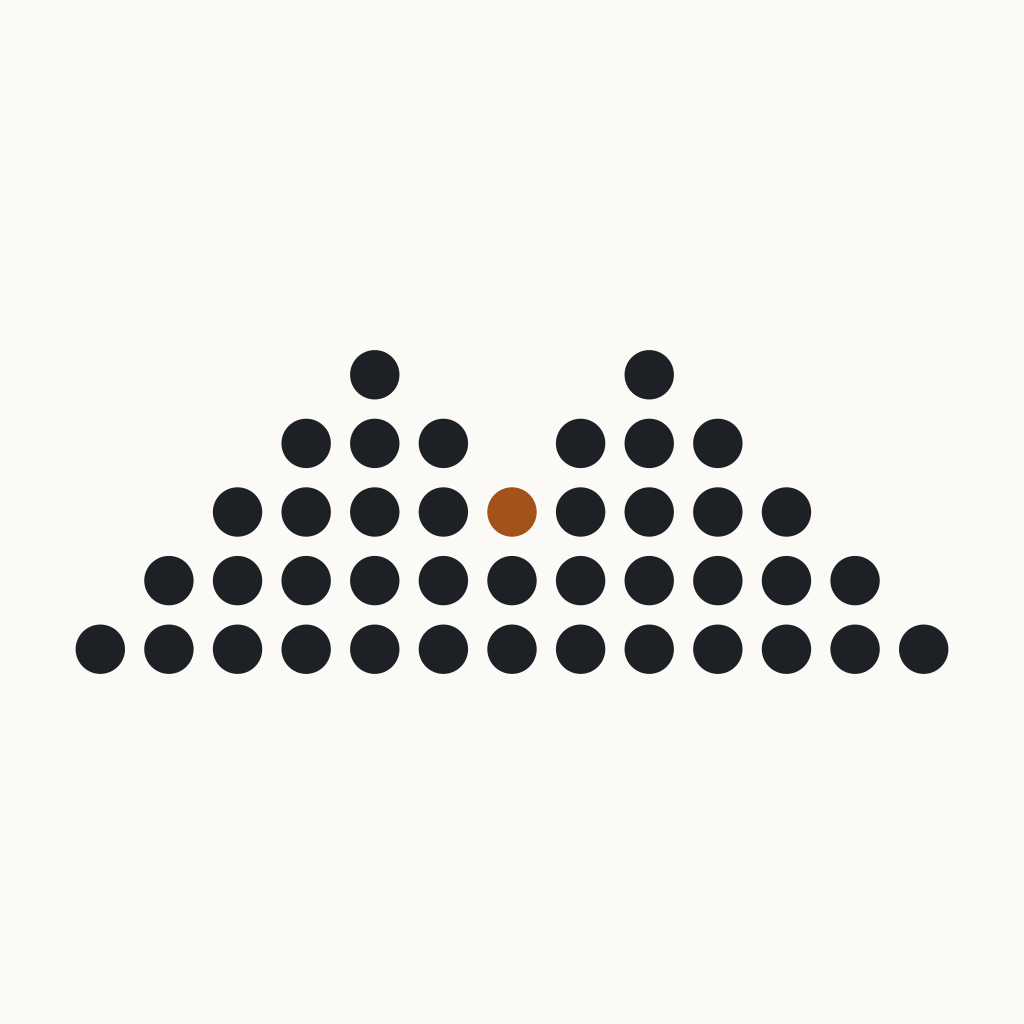
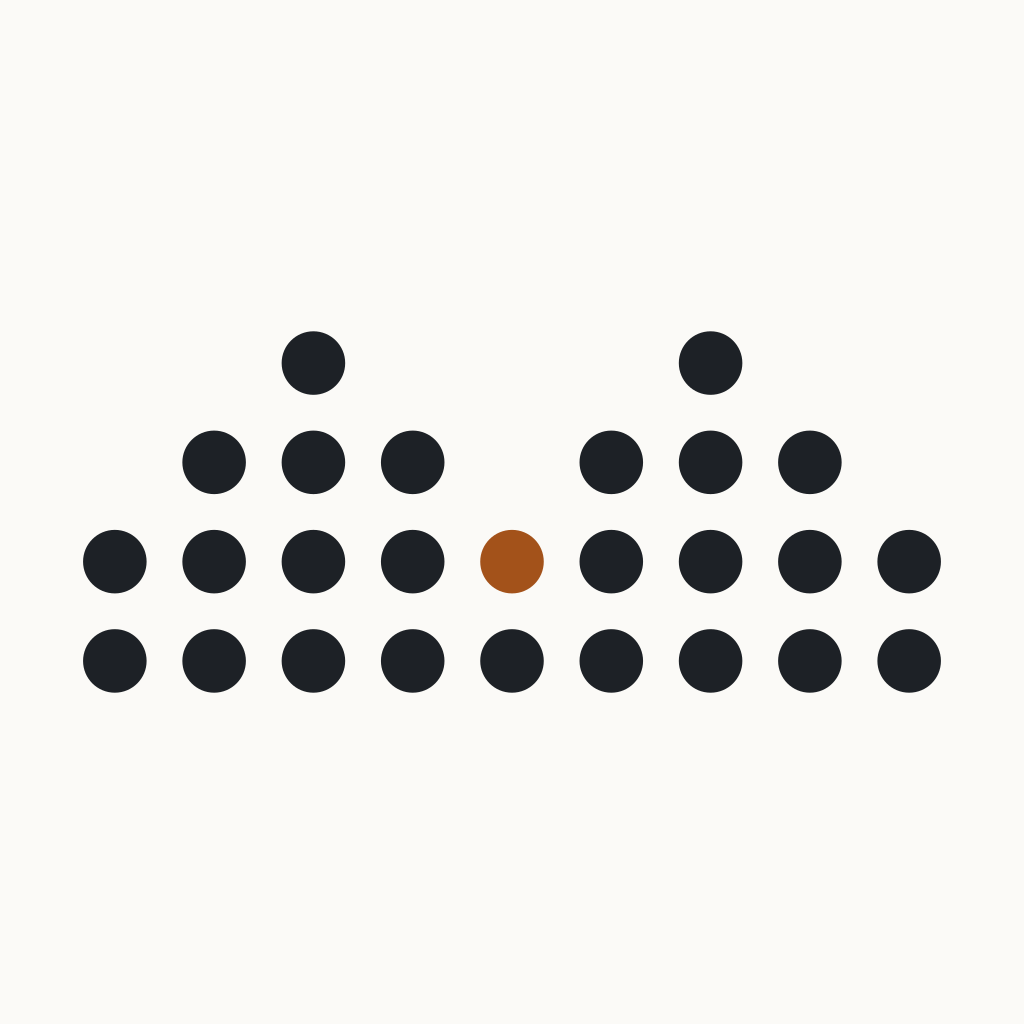
design: thicker tenferro strokes and a smaller colmat matrix for print
Same check as for tensor4all, at a left-chest size (wordmark 80 mm wide):

- tenferro strokes were 0.87 mm, enough for screen printing but not for
  embroidery (about 1.3 mm). Strokes go from 4.5 to 7 units (1.31 mm);
  favicons from 9 to 10.5.
- colmat had 41 entries with 0.63 mm gaps, under the usual 1 mm minimum,
  so entries would merge. The matrix m is now 4 by 9 with 26 entries and a
  dot ratio of 0.32: entries 1.96 mm, gaps 1.10 mm. The two peaks and the
  col stay.

The READMEs state the new sizes.

Changed region(s): [[0.0625, 0.3125, 0.9375, 0.6875]]

diff --git a/branding/tools/export_logos.py b/branding/tools/export_logos.py
@@ -164,10 +164,12 @@ def t4a_four(colors=None, cls=False):
 # A hex nut (ferro: iron, which rusts: Rust) with a tensor product as its hole.
 
 TF_NUT = "110,60 85,103.3 35,103.3 10,60 35,16.7 85,16.7"
-TF_BOX = (7.75, 14.45, 112.25, 105.55)
+TF_STROKE = 7.0       # heavy enough for embroidery at a left-chest size
+TF_STROKE_SMALL = 10.5
+TF_BOX = (10 - TF_STROKE / 2, 16.7 - TF_STROKE / 2, 110 + TF_STROKE / 2, 103.3 + TF_STROKE / 2)
 
 
-def tf_mark(colors=None, cls=False, sw=4.5, cross_only=False):
+def tf_mark(colors=None, cls=False, sw=TF_STROKE, cross_only=False):
     def paint(role):
         return f'class="{role}"' if cls else f'stroke="{colors[role]}"'
 
@@ -183,12 +185,11 @@ def tf_mark(colors=None, cls=False, sw=4.5, cross_only=False):
 # The m of colmat drawn as matrix entries: two peaks and the col (mountain
 # pass, saddle point) between them, marked in the accent color.
 
-COLMAT_M = [  # 5 x 13; '#' entry, 'o' the col, '.' zero
-    "....#...#....",
-    "...###.###...",
-    "..####o####..",
-    ".###########.",
-    "#############",
+COLMAT_M = [  # 4 x 9; '#' entry, 'o' the col, '.' zero. Few, large entries print cleanly.
+    "..#...#..",
+    ".###.###.",
+    "####o####",
+    "#########",
 ]
 COLMAT_SMALL = [  # 4 x 7, for favicons
     ".#...#.",
@@ -201,7 +202,7 @@ COLMAT_TINY = [  # 3 x 5, for 16 px
     "##o##",
     "#####",
 ]
-DOT_RATIO = 0.36  # dot radius / pitch
+DOT_RATIO = 0.32  # dot radius / pitch: gaps of 0.36 pitch, over 1 mm at a left-chest size
 DOT_RATIO_SMALL = 0.42  # fuller dots for favicons
 
 
@@ -288,10 +289,10 @@ def main():
         write(p, f"tenferro-avatar{sfx}.svg", svg(square_around(TF_BOX, side=180), bg + tf_mark(c), "tenferro"))
     tf_auto = auto_style(FAMILY, {"ink": ("stroke", "ink"), "accent": ("stroke", "accent")})
     write(p, "tenferro-mark-auto.svg", svg(square_around(TF_BOX, 4), tf_mark(cls=True), "tenferro", tf_auto))
-    write(p, "favicon.svg", svg(square_around(TF_BOX, 6), tf_mark(cls=True, sw=9), "tenferro", tf_auto))
+    write(p, "favicon.svg", svg(square_around(TF_BOX, 6), tf_mark(cls=True, sw=TF_STROKE_SMALL), "tenferro", tf_auto))
     c = FAMILY["light"]
     bg = f'<rect x="-100" y="-100" width="400" height="400" fill="{c["bg"]}"/>'
-    write(p, "tenferro-icon-small.svg", svg((0, 0, 120, 120), bg + tf_mark(c, sw=9), "tenferro"))
+    write(p, "tenferro-icon-small.svg", svg((0, 0, 120, 120), bg + tf_mark(c, sw=TF_STROKE_SMALL), "tenferro"))
     write(p, "tenferro-icon-16.svg", svg((0, 0, 120, 120), bg + tf_mark(c, sw=12, cross_only=True), "tenferro"))
 
     # ---- colmat

diff --git a/branding/colmat/README.md b/branding/colmat/README.md
@@ -16,7 +16,7 @@ There are two layouts and two palettes, all generated from the same pattern:
 | Layout | Files | Shows |
 | --- | --- | --- |
 | Plain | `colmat-wordmark*.svg` | Only the nonzero entries |
-| Grid | `colmat-wordmark-grid*.svg` | The full 5 by 13 matrix, zeros in a pale tone |
+| Grid | `colmat-wordmark-grid*.svg` | The full 4 by 9 matrix, zeros in a pale tone |
 
 | Palette | Files | Colors |
 | --- | --- | --- |
@@ -24,6 +24,8 @@ There are two layouts and two palettes, all generated from the same pattern:
 | Fresh | `-fresh` | The original navy and amber |
 
 Favicons use a smaller matrix (4 by 7, and 3 by 5 at 16 px) with the same two peaks and col.
+
+The matrix is kept small (26 entries) so it prints on clothing: with the wordmark 80 mm wide, a left-chest size, each entry is about 2 mm across and the gaps between entries about 1.1 mm, above the usual 1 mm printer minimum for a gap.
 
 ## Files
 

diff --git a/branding/tenferro/README.md b/branding/tenferro/README.md
@@ -15,6 +15,8 @@ The mark is a hex nut drawn as line art, with a tensor-product sign (a circled c
 - tenferro is a general tensor computation engine (einsum over any algebra, autodiff, linear algebra), not a tensor network library, so the mark uses the tensor product rather than a network diagram.
 - A nut is a part you bolt into something larger, which fits a runtime that other libraries and languages build on through its C API.
 
+The strokes are 7 units in a 120-unit box, so with the wordmark 80 mm wide (a left-chest size) they are about 1.3 mm, enough for screen printing and embroidery.
+
 The nut is in the ink color and the circled cross in copper. In the wordmark, **ferro** is in copper. At 16 px the circle is dropped.
 
 ## Files
